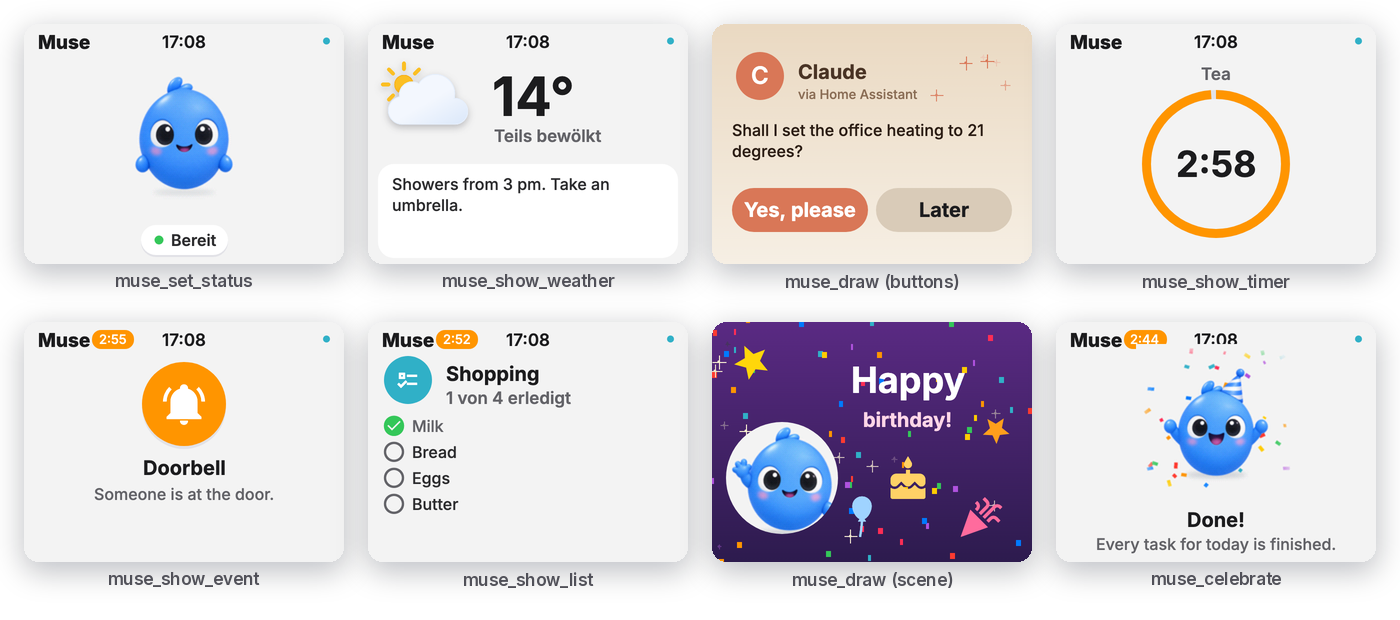
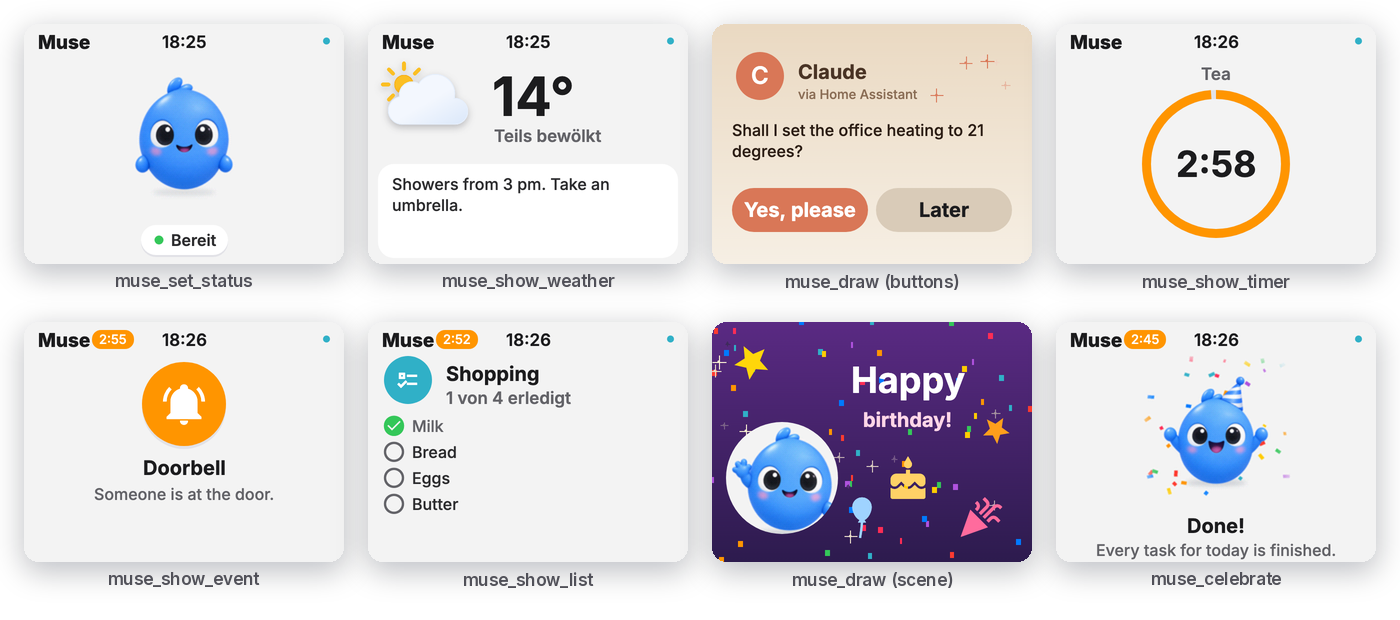
Celebration below the top bar on the 320 x 240 layout; hero GIF and cards picture recorded again
The confetti figure was drawn at (80, 22), 160 x 160, and its page-coloured frame covered
the lower part of the clock and the timer chip (the top bar reaches y 29). It now starts at
y 30 like the ready screen's figure; title 186 -> 192, body 212 -> 218, so the body's line
box ends at about y 237. Same change in web/cards.js and the firmware's display lambda;
web/test/cards.test.js pins both to the same positions and to the top bar. The firmware
change takes effect with the next flash.

docs/images/hero.gif and cards.png recorded again from the fixed web twin (demo,
figure=placeholder, 640 x 480, 28.2 s, 1.26 MB).

diff --git a/web/test/cards.test.js b/web/test/cards.test.js
@@ -1,0 +1,59 @@
+// cards.test.js: the box cards keep clear of the top bar and fit the 320 x 240 screen,
+// at the positions the firmware's display lambda uses (firmware/muse-esp32-s3-box-3-screen.yaml).
+import { test } from "node:test";
+import assert from "node:assert/strict";
+import { readFileSync } from "node:fs";
+import { drawCelebration, drawTopBar, CELEBRATION } from "../cards.js";
+import { CARD_FONTS } from "../render.js";
+
+const FIRMWARE = readFileSync(new URL("../../firmware/muse-esp32-s3-box-3-screen.yaml", import.meta.url), "utf8");
+const TOP_BAR = 30;  // the badges reach y 27, the clock's line box y 29; a tap above 30 opens the box info
+const FIGURE = 160;
+// The line box of Inter (ascent 0.96875 + descent 0.2412 of the size), as render.js and ESPHome place text.
+const lineBox = (name) => CARD_FONTS[name][1] * (0.96875 + 0.2412);
+
+function recorder() {
+  const calls = [];
+  const r = {
+    print: (x, y, font, color, align, text) => calls.push(["print", x, y, text]),
+    roundRect: (x, y, w, h) => calls.push(["roundRect", x, y, w, h]),
+    circle: () => {},
+    width: (text) => 7 * text.length,
+    widthOf: () => (text) => 7 * text.length,
+  };
+  return { r, calls };
+}
+
+test("the celebration starts below the top bar and its text ends above y 240", () => {
+  const { r, calls } = recorder();
+  const drawn = [];
+  const d = { card: { title: "Done!", body: "Every task for today is finished." }, since: 0,
+    figure: { draw: (r_, name, t, x, y) => drawn.push([name, x, y]) } };
+  drawCelebration(r, d, 1000);
+  assert.deepEqual(drawn, [["confetti", 80, CELEBRATION.figureY]]);
+  assert.ok(CELEBRATION.figureY >= TOP_BAR, "the figure's page-coloured frame would cover the clock and the timer chip");
+  assert.deepEqual(calls.map((c) => c.slice(0, 3)), [["print", 160, CELEBRATION.titleY], ["print", 160, CELEBRATION.bodyY]]);
+  assert.ok(CELEBRATION.titleY >= CELEBRATION.figureY + FIGURE, "the title sits below the figure");
+  assert.ok(CELEBRATION.bodyY >= CELEBRATION.titleY + lineBox("title"), "the body sits below the title");
+  assert.ok(CELEBRATION.bodyY + lineBox("body") <= 240, "the body fits on the screen");
+});
+
+test("the top bar draws nothing below y 30", () => {
+  const { r, calls } = recorder();
+  const d = { name: "Muse", connection: "on", card: { mode: 3 }, queue: { waiting: [1, 2] },
+    timers: { soonest: () => ({ left: 299 }) } };
+  drawTopBar(r, d, 0, new Date(2026, 9, 24, 21, 30));
+  for (const c of calls) {
+    if (c[0] === "roundRect") assert.ok(c[2] + c[4] <= TOP_BAR, `badge at y ${c[2]}, ${c[4]} high`);
+    if (c[0] === "print" && c[3] === "21:30") assert.ok(c[2] + lineBox("clock") <= TOP_BAR, "the clock's line box");
+  }
+});
+
+test("the firmware draws the celebration at the same positions", () => {
+  const block = FIRMWARE.slice(FIRMWARE.indexOf("if (mode == 3) {"), FIRMWARE.indexOf("if (mode == 4) {"));
+  assert.ok(block.length > 0);
+  assert.match(block, new RegExp(`it\\.image\\(80, ${CELEBRATION.figureY}, confetti\\);`));
+  assert.match(block, new RegExp(`it\\.print\\(160, ${CELEBRATION.titleY}, id\\(m_title\\)`));
+  assert.match(block, new RegExp(`it\\.print\\(160, ${CELEBRATION.bodyY}, id\\(m_body\\)`));
+  assert.match(FIRMWARE, new RegExp(`it\\.image\\(80 \\+ wiggle, ${TOP_BAR}, anim\\);`), "the ready screen's figure, the reference");
+});

diff --git a/web/cards.js b/web/cards.js
@@ -130,12 +130,15 @@ export function drawValue(r, d) {
 }
 
 // Confetti plays once, then holds its last frame (a step per 200 ms, like the box).
+// The figure starts at y 30 below the top bar, like the ready screen's: its frame is
+// filled with the page colour and would cover the clock and the timer chip (y 8 to 29).
+export const CELEBRATION = { figureY: 30, titleY: 192, bodyY: 218 };
 export function drawCelebration(r, d, now) {
   const c = d.card;
-  d.figure.draw(r, "confetti", now - d.since, 80, 22, CARD_STEP_MS);
-  r.print(160, 186, cardFont("title"), INK, "TC", c.title);
+  d.figure.draw(r, "confetti", now - d.since, 80, CELEBRATION.figureY, CARD_STEP_MS);
+  r.print(160, CELEBRATION.titleY, cardFont("title"), INK, "TC", c.title);
   const body = wrap(c.body, r.widthOf(cardFont("body")), 290);
-  if (body.length) r.print(160, 212, cardFont("body"), SUB, "TC", body[0]);
+  if (body.length) r.print(160, CELEBRATION.bodyY, cardFont("body"), SUB, "TC", body[0]);
 }
 
 // Weather: big icon, temperature and condition, the forecast below.

diff --git a/web/test/figure.test.js b/web/test/figure.test.js
@@ -110,7 +110,7 @@ test("FigureSource: the project's frames are the default, the owner's go first, 
   const drawn = [];
   const r2d = { ctx: { save() {}, restore() {}, drawImage: (img, x, y, w, h) => drawn.push([img, x, y, w, h]) } };
   src.draw(r2d, "wave", 2 * STEP_MS, 80, 30);
-  src.draw(r2d, "confetti", 0, 80, 22);
+  src.draw(r2d, "confetti", 0, 80, 30);
   assert.deepEqual(drawn, [["./figure-default/wave.png#2", 80, 30, 160, 160]]);
   assert.deepEqual(placeholderCalls, ["confetti"], "what the project lacks is drawn in code");
   await src.use("http://127.0.0.1:8322");

diff --git a/CHANGELOG.md b/CHANGELOG.md
@@ -2,13 +2,14 @@
 
 The version is `esphome: project: version` in `firmware/muse-esp32-s3-box-3-screen.yaml`; the box reports it in `muse_get_state` and on its info screen. Dates are the day the firmware ran on the box. Wrong turns are recorded, because the same mistake comes back otherwise.
 
-## Muse Web Screen 1.4.0, 24 October 2026 (firmware unchanged at 4.3.0)
+## Muse Web Screen 1.4.0, 24 October 2026 (firmware 4.3.0 with one layout fix for the next flash)
 
 - The project is called Muse ESP32 Screen and lives at github.com/leopardcodeai/muse-esp32-screen, because it now targets more than one ESP32 board (the ESP32-S3-BOX-3 and the ESP32-S31 of Espressif's ESP-Mosaico). Every earlier address redirects. Device names, action names and the firmware file stay as they are.
 - Square layout, 480 x 480 (`index.html?layout=square` or the new Layout setting), for the ESP-Mosaico port and the camera add-on: every action, cards slide in and fade out, the pill dot pulses while listening or thinking, the timer arc moves smoothly, celebrate adds a confetti burst, and nothing is redrawn while nothing moves. The 320 x 240 layout renders pixel for pixel as before. Design: docs/SQUARE_LAYOUT.md.
 - Your own character: `tools/make_figure.py --from-image` turns one picture into the full set of animations for the box and the browser (docs/OWN_FIGURE.md); `--size` and `--avatar` serve the square layout.
 - Fixed after a review: the square's queue limit also holds after urgent cards; a question arriving within the 150 ms of a button press is no longer advanced by that press; a layout chosen in the settings applies even when the URL forces another; a large picture with a small character no longer needs a gigabyte in `--from-image`.
 - README rewritten for people new to the project, with pictures in docs/images/.
+- The celebration on the 320 x 240 layout draws its figure at y 30 instead of 22, below the top bar like the ready screen's, with the title at y 192 (was 186) and the body at y 218 (was 212): the figure's page-coloured frame had covered the lower part of the clock and the timer chip, as the hero GIF showed. Fixed the same way in the web twin (`web/cards.js`) and the firmware (`muse-esp32-s3-box-3-screen.yaml`); `web/test/cards.test.js` keeps both at the same positions. The firmware change takes effect with the next flash; the box keeps showing the old positions until then. The hero GIF and the cards picture are recorded again.
 
 ## 4.3.0, 8 October 2026
 
